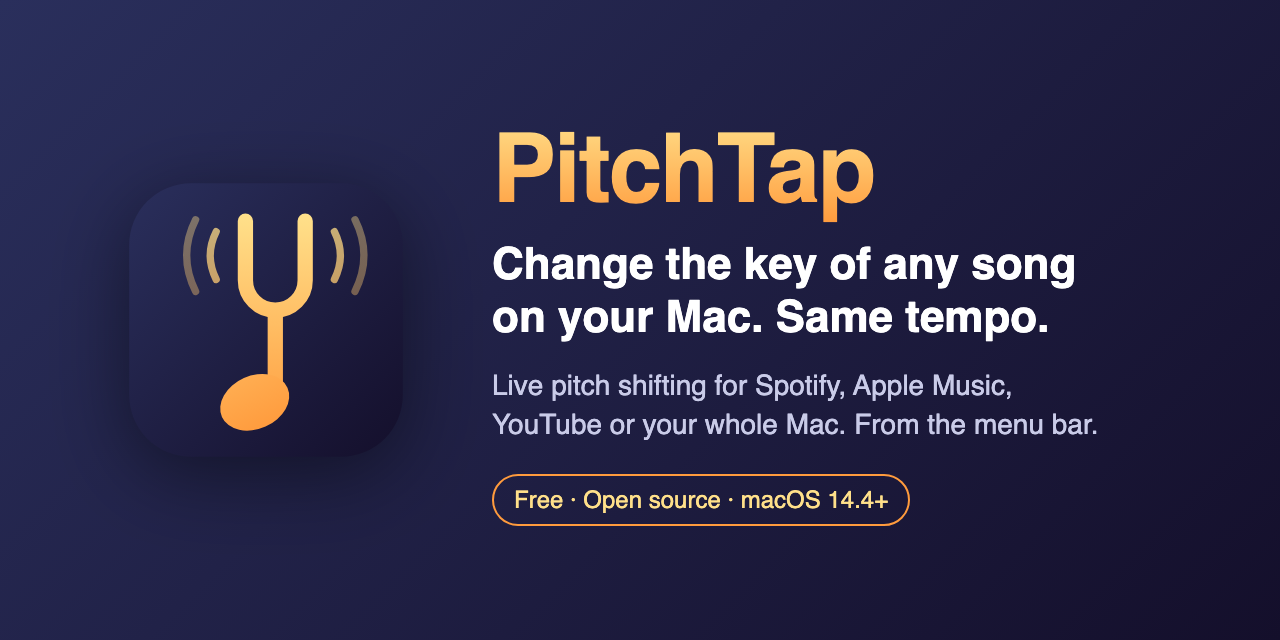
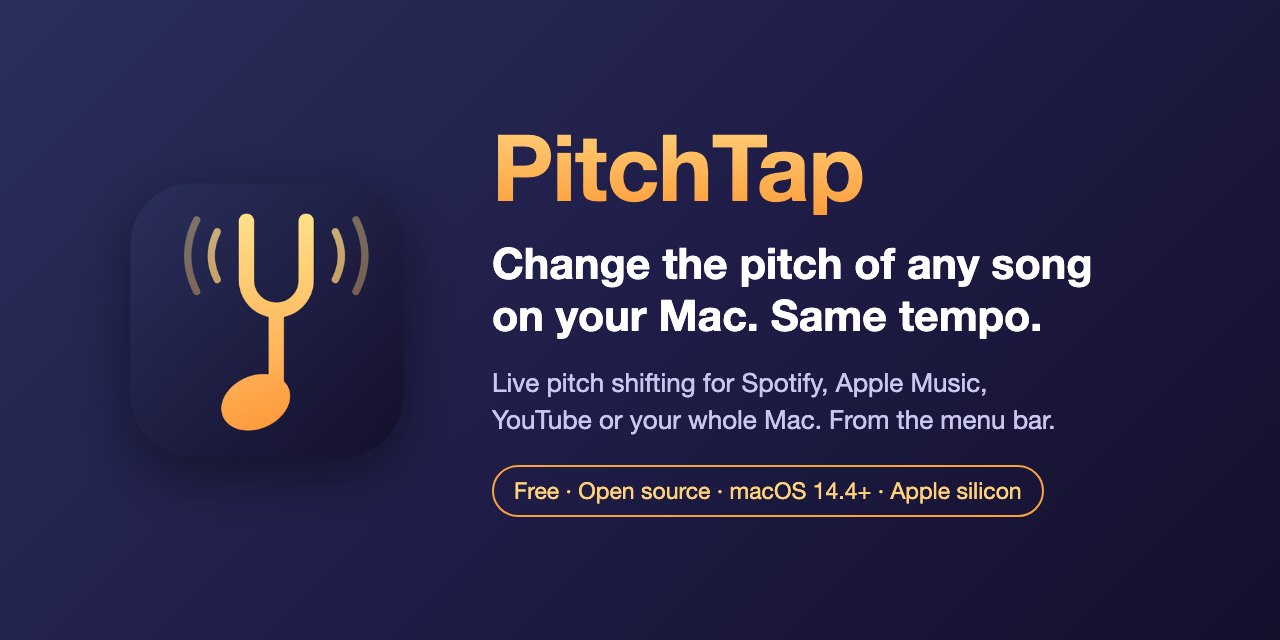
Social preview: lead with pitch, mention Apple silicon
Keep the card's source in design/ so it can be re-rendered.

diff --git a/design/social-preview.html b/design/social-preview.html
@@ -1,0 +1,19 @@
+<!doctype html><html><head><meta charset="utf-8"><style>
+html,body{margin:0;width:1280px;height:640px;overflow:hidden}
+body{background:linear-gradient(135deg,#2a2f5b 0%,#1f1d48 50%,#140f2b 100%);font-family:-apple-system,"Helvetica Neue",Helvetica,Arial,sans-serif;position:relative}
+.logo{position:absolute;left:97px;top:150px;width:340px;height:340px;filter:drop-shadow(0 18px 30px rgba(0,0,0,.45))}
+.text{position:absolute;left:492px;top:118px;right:40px}
+h1{margin:0;font-size:92px;font-weight:700;letter-spacing:-1px;line-height:1.05;background:linear-gradient(180deg,#ffd27a,#ff9d3c);-webkit-background-clip:text;color:transparent}
+h2{margin:22px 0 0;font-size:43px;font-weight:700;color:#fff;line-height:1.22}
+p{margin:22px 0 0;font-size:26px;color:#c9c6ef;line-height:1.45}
+.pill{display:inline-block;margin-top:26px;padding:10px 20px;border:2px solid #f7a440;border-radius:999px;color:#ffd27a;font-size:23px}
+</style></head><body>
+<img class="logo" src="../assets/logo.png" alt="">
+<div class="text">
+<h1>PitchTap</h1>
+<h2>Change the pitch of any song<br>on your Mac. Same tempo.</h2>
+<p>Live pitch shifting for Spotify, Apple Music,<br>YouTube or your whole Mac. From the menu bar.</p>
+<div class="pill">Free · Open source · macOS 14.4+ · Apple silicon</div>
+</div></body></html>
+<!-- Source for assets/social-preview.png (1280x640). Render from the repo root:
+  "/Applications/Google Chrome.app/Contents/MacOS/Google Chrome" --headless=new --hide-scrollbars --force-device-scale-factor=1 --window-size=1280,640 --screenshot=assets/social-preview.png "file://$PWD/design/social-preview.html" -->
